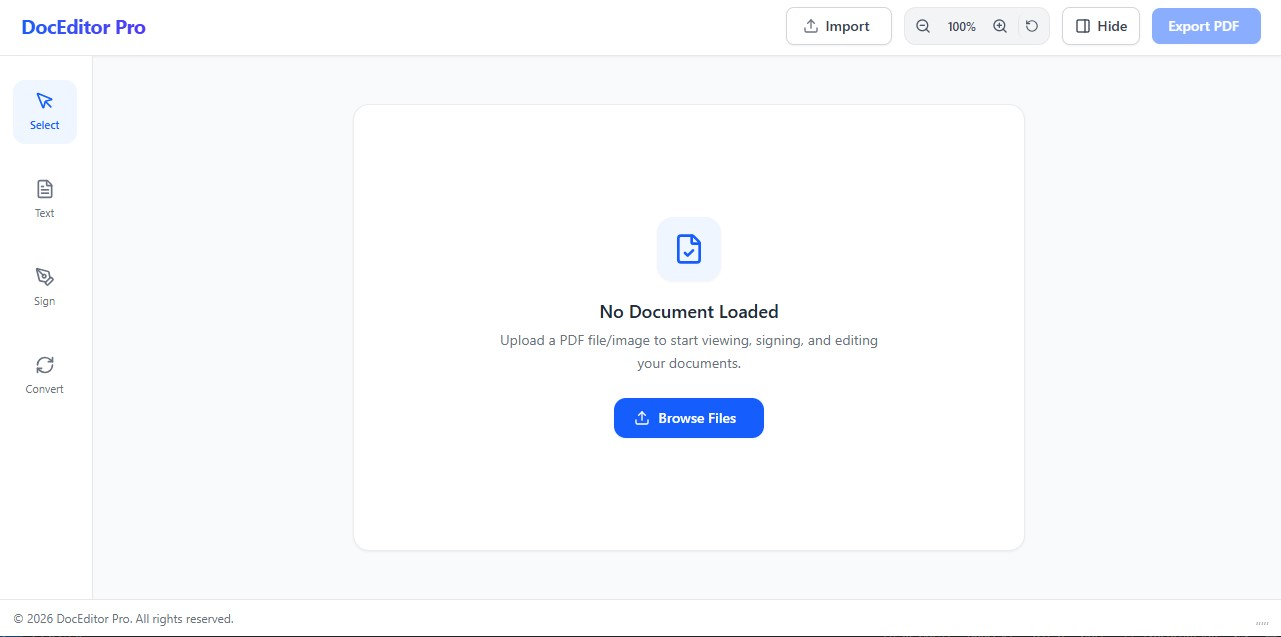
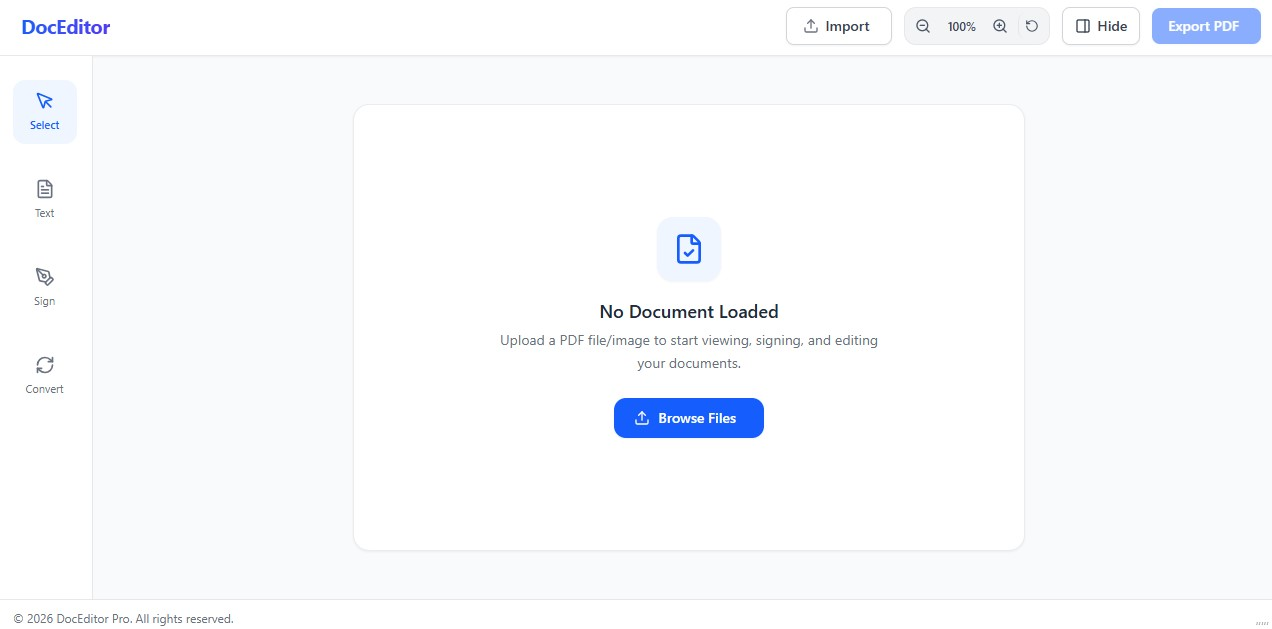
changed image

diff --git a/src/components/Projects.jsx b/src/components/Projects.jsx
@@ -20,7 +20,7 @@ const projects = [
   },
   {
     id: "doc-editor",
-    title: "Doc Editor Pro",
+    title: "Doc Editor ",
     description:
       "A feature-rich interactive document editor and web application built for creating, styling, placing text annotations, and inserting signatures with state-tracked undo/redo history.",
     tech: ["REACT", "TYPESCRIPT", "TAILWIND CSS", "VITE"],
